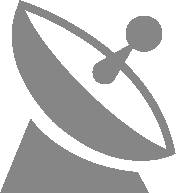
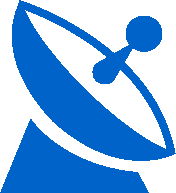
v0

diff --git a/adif-test.html b/adif-test.html
@@ -270,7 +270,7 @@
         function plotAllStations(map) {
             Object.keys(stationCoordinates).forEach(callsign => {
                 if (!isStationPlottedInRed(callsign)) {
-                    const marker = plotStationOnMap(map, { callsign }, stationCoordinates[callsign], 'https://dxer.site/img/m_m30.png');
+                    const marker = plotStationOnMap(map, { callsign }, stationCoordinates[callsign], 'https://dxer.site/img/notworked.png');
                     // Add the marker to the array of blue markers
                     blueMarkers.push(marker);
                 }
